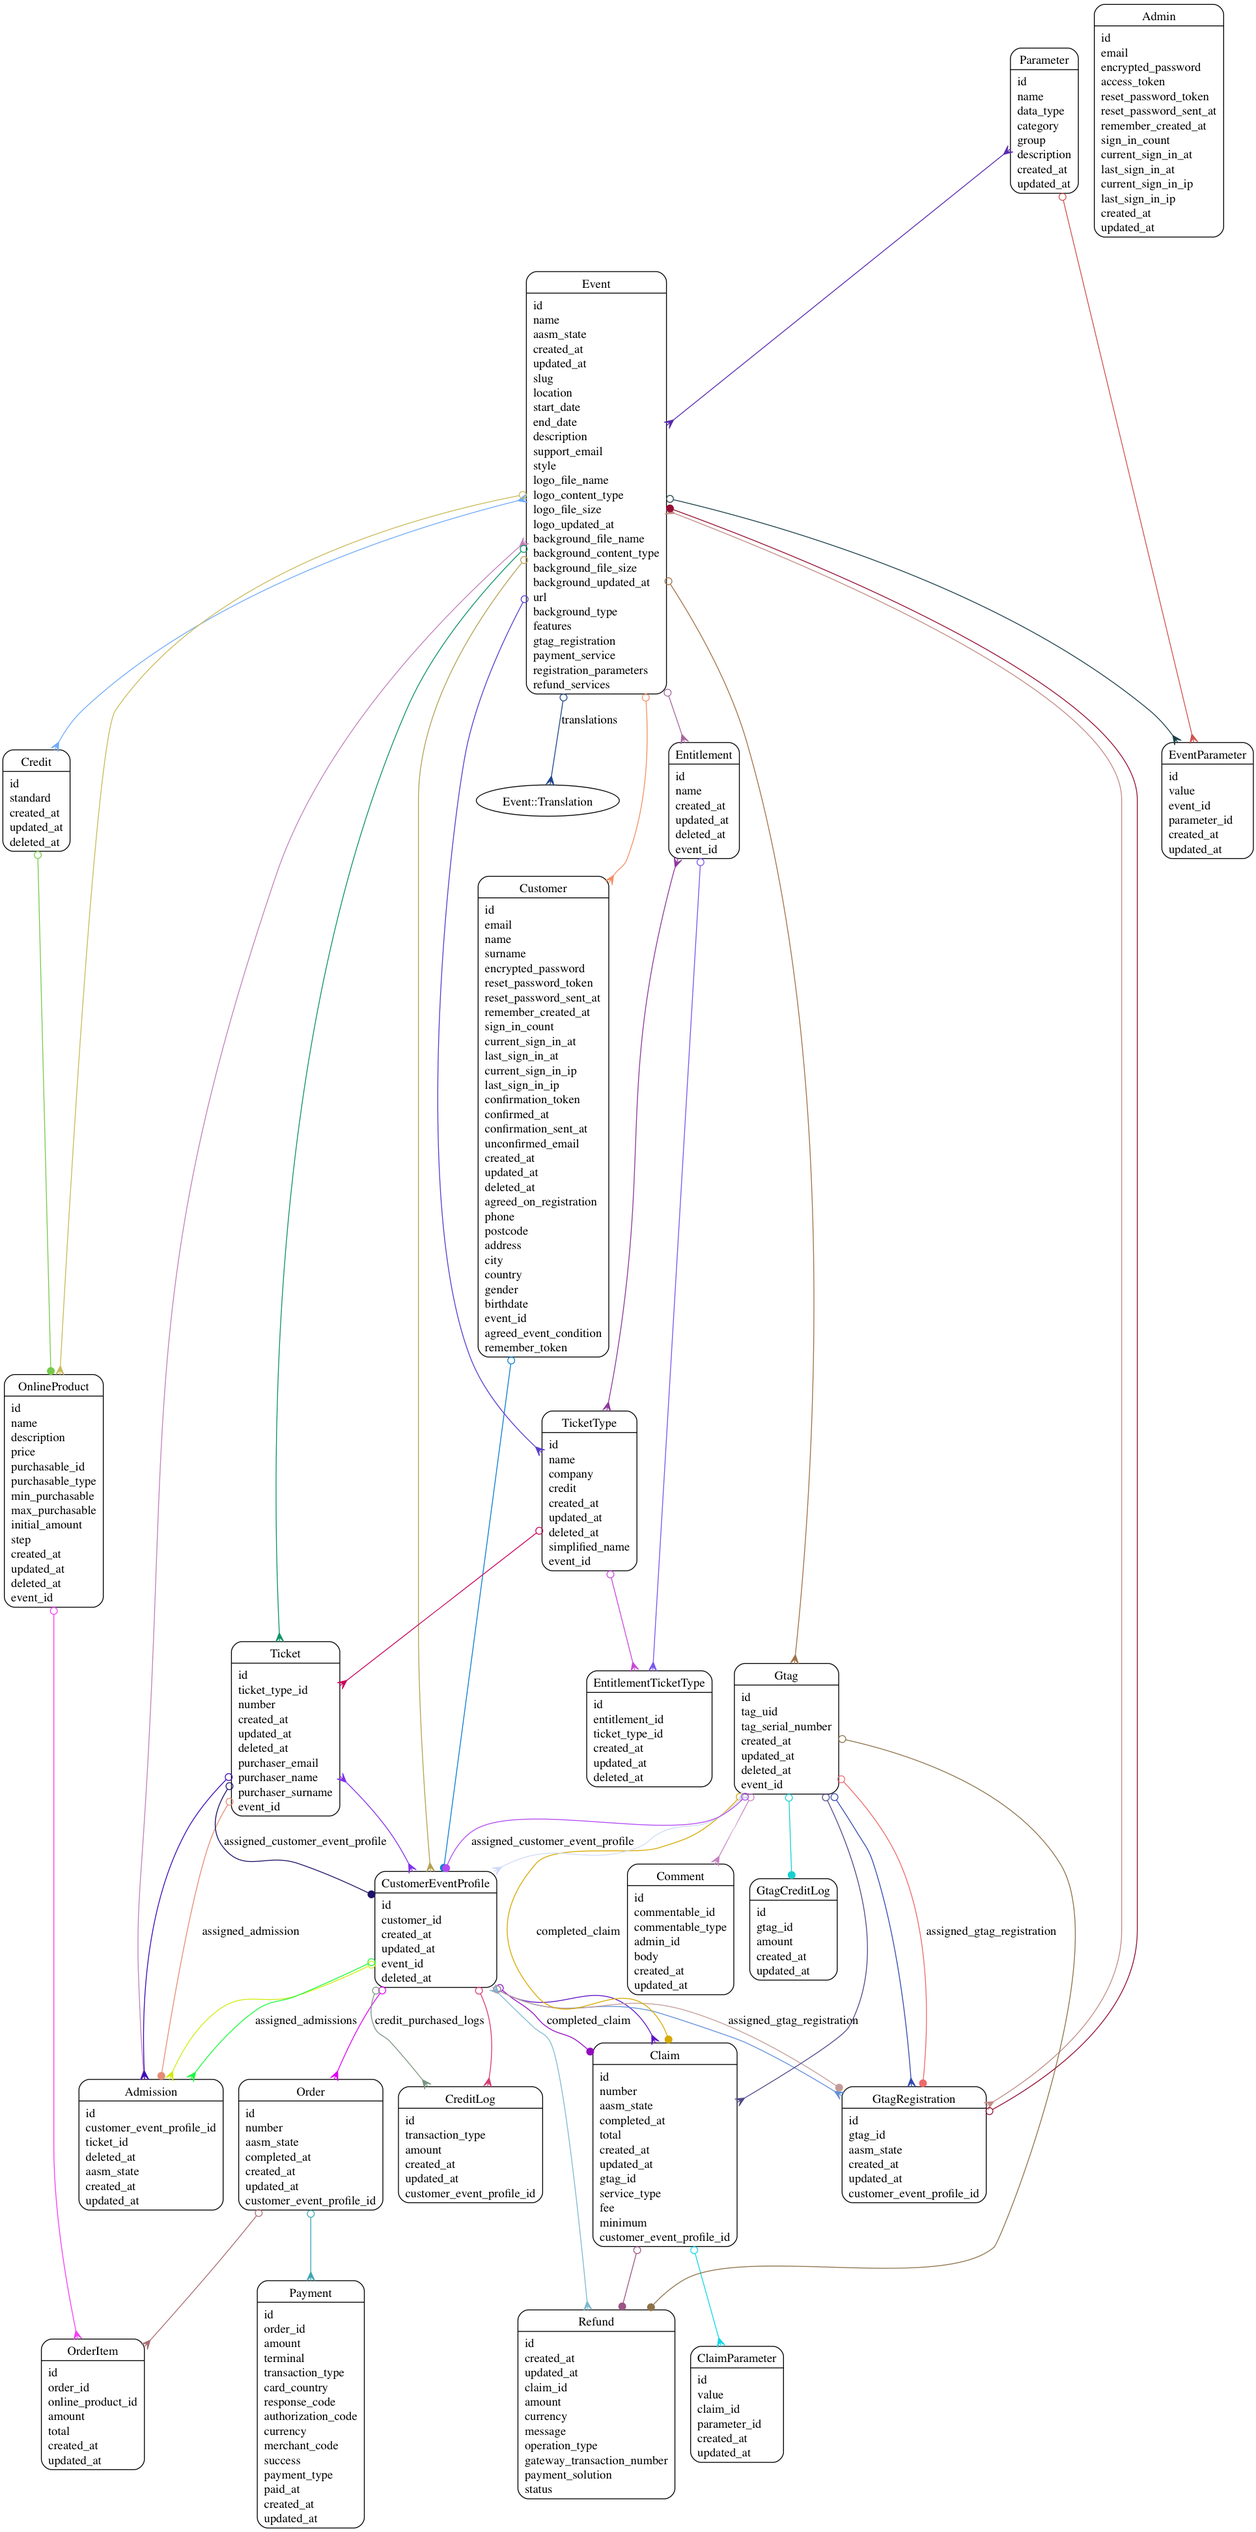
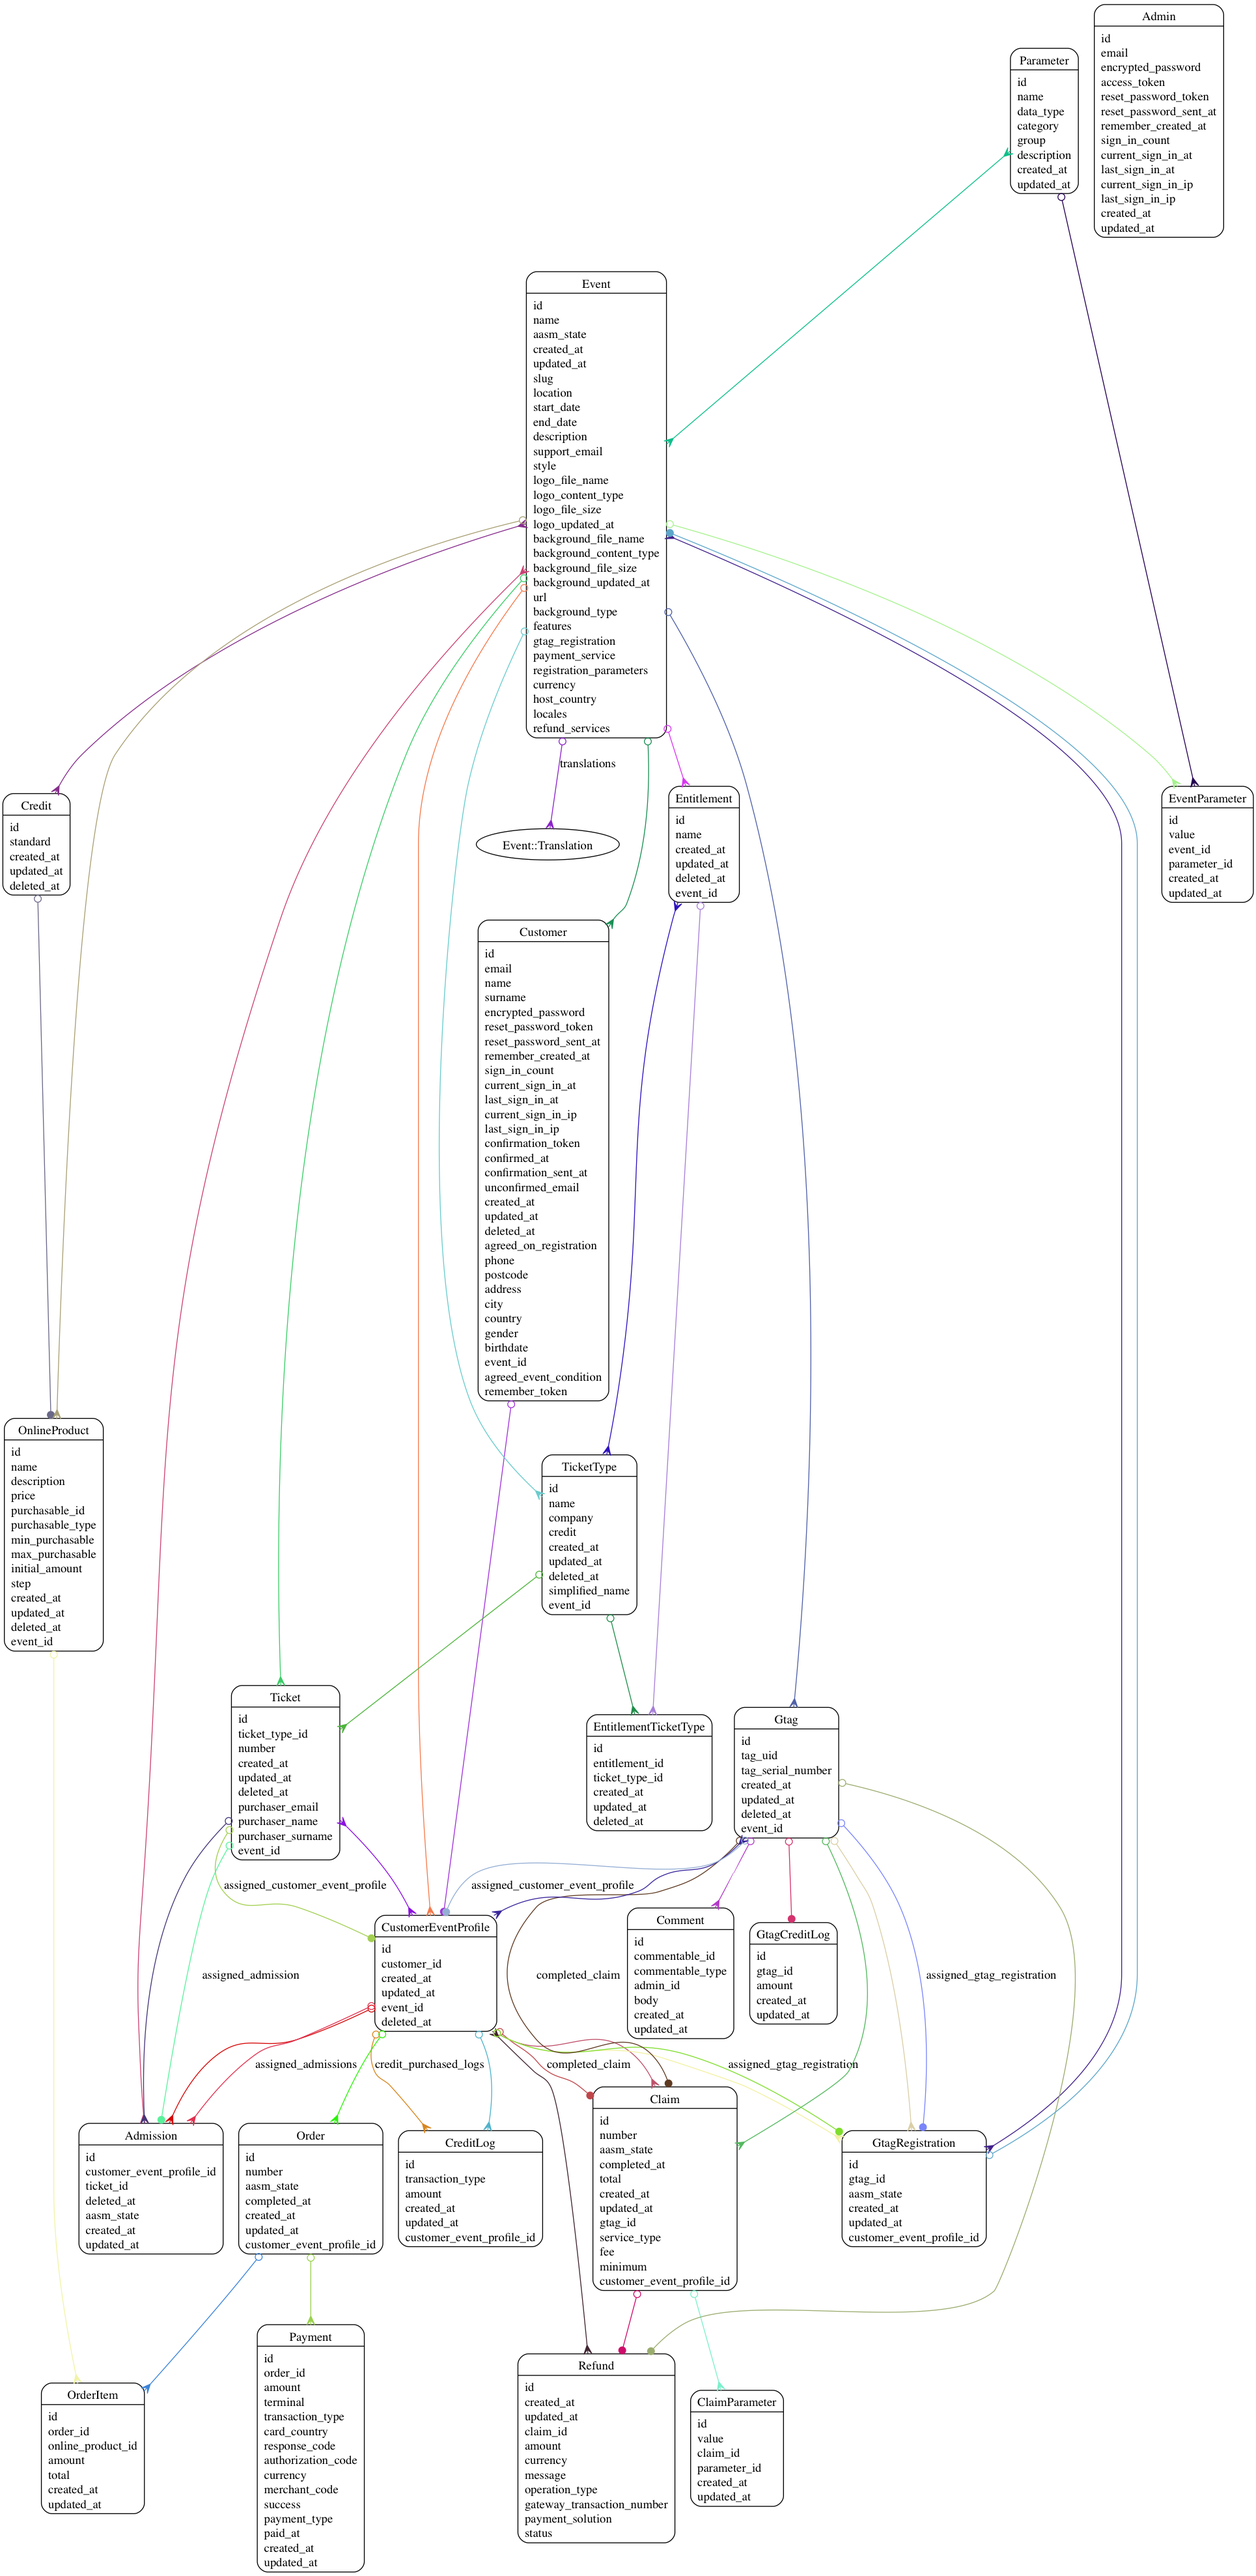
Refund admin panel fix

diff --git a/apps/administration/app/controllers/admins/events_controller.rb b/apps/administration/app/controllers/admins/events_controller.rb
@@ -63,7 +63,7 @@ class Admins::EventsController < Admins::BaseController
     params.require(:event).permit(:aasm_state, :name, :url, :location,
       :start_date, :end_date, :description, :support_email, :style, :logo,
       :background_type, :background, :features, :locales, :payment_service,
-      :refund_service, :gtag_registration, :info, :disclaimer, :host_country,
+      :refund_services, :gtag_registration, :info, :disclaimer, :host_country,
       :currency, :registration_parameters, :agreed_event_condition_message)
   end
 
